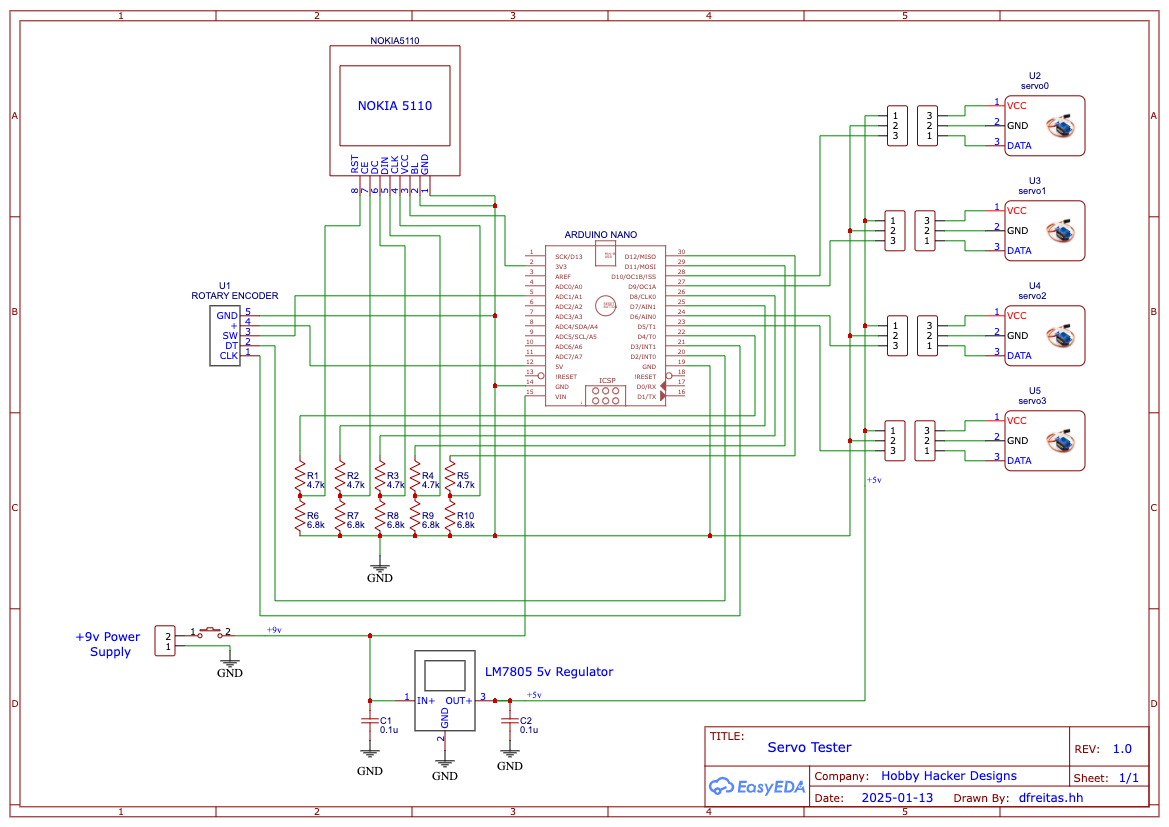
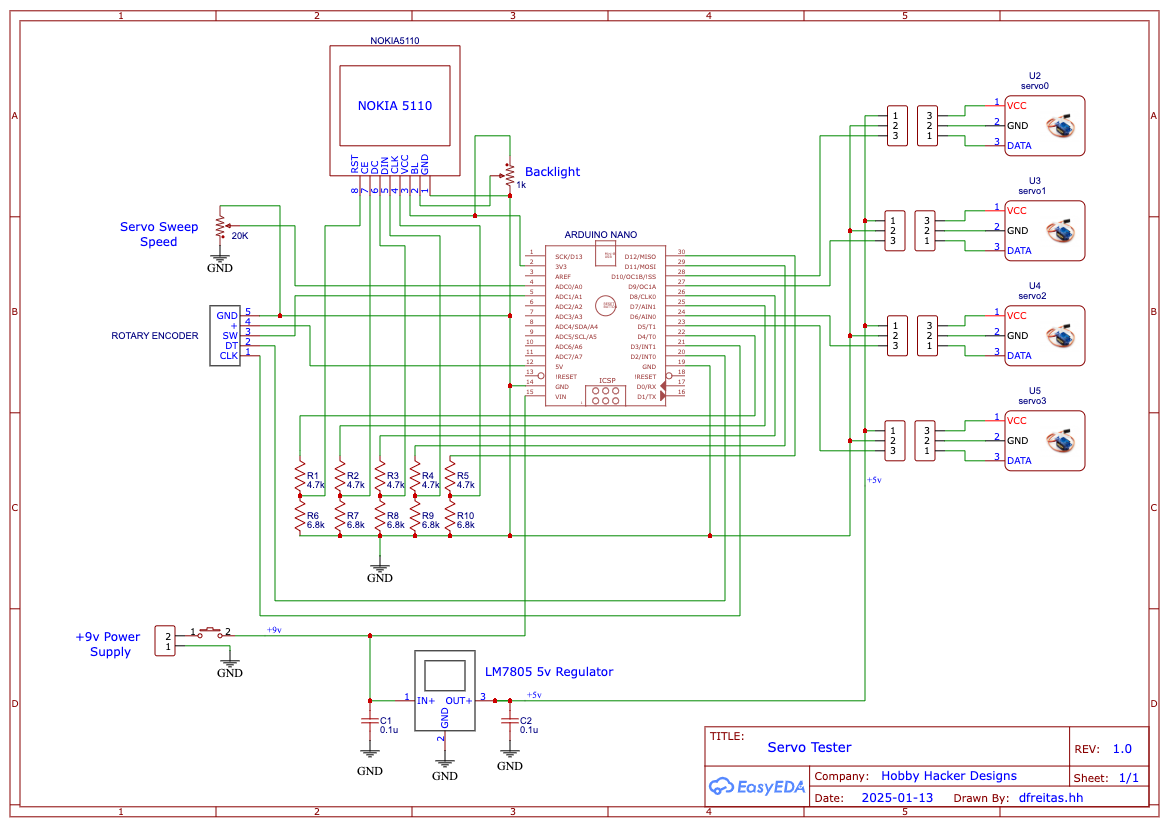
New schematic/code with backlight and servo-sweep-time control.

diff --git a/src/main.cpp b/src/main.cpp
@@ -1,8 +1,23 @@
 #include <Arduino.h>
 
-// For Nokia OLED display
-//#include <Adafruit_GFX.h>
-//#include <Adafruit_PCD8544.h>
+/* ServoTester
+  
+   Up to four servos can be tested at a time.  All four servos can be driven simultaneously (with the same input range/mode) 
+   or each servo can have a separate minimum angle, maximum angle and automatic sweep or manual move mode.
+  
+   Two level menu is used.  The top level menu shows servo-0/1/2/3 and one called "A" (for all).  Rotating the active line
+   indicator (an "=" in the left most column) to the desired servo and clicking the rotary switch puts you into the setting
+   mode for that servo.  From there you can set the min-angle, max-angle, mode (POT - for potentiometer, or SWP - for auto-
+   sweep), and the current angle.  Select the desired line and click to enter edit mode.  In edit mode you turn the rotary
+   knob to increase/decrease the angle or select the different modes.  Select "Back" at the bottom of the menu to return to 
+   the top level menu.
+  
+   Selecting the ServoA line puts you into a mode where the setting apply to all the servos at once (overriding any settings
+   that were set for each individual servo).  It allows you to set or sweep all servos with the same settings.
+  
+   DLF 1/18/2025
+*/
+
 #include <RotaryEncoder.h>
 #include <Servo.h>
 #include <U8g2lib.h>
@@ -17,15 +32,14 @@ enum servoMode { POT, SWP };  // Either controlled with a potentiometer (POT) or
 enum rotary { LINE, MODE, CURA, MINA, MAXA };  // What the rotary knob is controlling
 
 // Constants
-#define OLED_REFRESH_TIME  100   // Time (ms) between OLED screen updates
-#define SERVO_MOVE_TIME    500   // Time (ms) between servo sweep steps
+#define OLED_REFRESH_TIME  60    // Time (ms) between OLED screen updates
 boolean PRESSED = false;
 
 // U8G2 for PCD8544 with software SPI
-//U8G2_PCD8544_84X48_1_4W_SW_SPI u8g2(U8G2_R0, /* clock=*/ 12, /* data=*/ 11, /* cs=*/ 7, /* dc=*/ 8, /* reset=*/ 4);
 U8X8_PCD8544_84X48_4W_SW_SPI u8x8(/* clock=*/ 12, /* data=*/ 11, /* cs=*/ 7, /* dc=*/ 8, /* reset=*/ 4);
 
-char str[11];  // Array to hold sprintf strings
+// Array to hold sprintf strings
+char str[11];  
 char modeStr[4];
 char selChar[2];
 
@@ -41,24 +55,25 @@ int encoderCurPosition = 0;
 
 // Servos
 #define NUM_SERVOS 5
-int servoPinArr[NUM_SERVOS] = {10,9,6,5,-1};
-int servoCurAngleArr[NUM_SERVOS] = {90,90,90,90,90};
-int servoMinAngleArr[NUM_SERVOS] = {0,0,0,0,-20};
-int servoMaxAngleArr[NUM_SERVOS] = {180,180,180,180,200};
-servoMode servoModeArr[NUM_SERVOS] = {POT,POT,POT,POT,POT};  // modes are POT or SWP  (potentiometer or sweep)
-Servo servoInstance[NUM_SERVOS-1]; // Create the servo objects for the actual servos (servo5 means ALL servos).
+#define SERVO_SWEEP_SPEED_PIN A2       // So we can control how fast the servos sweep
+int servoPinArr[NUM_SERVOS] = {10,9,6,5,-1};  // Fifth entry is just a dummy placeholder for the ALL-SERVOS settings.  We don't assign a real servo to it.
+int servoCurAngleArr[NUM_SERVOS] = {90,90,90,90,90};        // Current angle setting for each servo
+int servoMinAngleArr[NUM_SERVOS] = {0,0,0,0,-20};           // Minimum angle limit for each servo
+int servoMaxAngleArr[NUM_SERVOS] = {180,180,180,180,200};   // Maximum angle limit for each servo
+servoMode servoModeArr[NUM_SERVOS] = {POT,POT,POT,POT,POT}; // modes are POT or SWP  (potentiometer or sweep-auto)
+Servo servoInstance[NUM_SERVOS-1]; // Create the servo objects for the actual servos 
 
 // Menu Vars
 uint8_t menuLevel = 0;
-uint8_t level0SelectRow = 0;
-uint8_t level1SelectRow = 0;
+uint8_t level0SelectRow = 0;     // The top level row that is being selected to use
+uint8_t level1SelectRow = 0;     // The level-1 menu row that is beign selected
 uint8_t NUM_LEVEL0_ITEMS = 5;
 uint8_t NUM_LEVEL1_ITEMS = 5;
-boolean editing = false;   // Set true when editing data in a menu row
+boolean editing = false;         // Set true when editing data in a menu row
 
 // Misc Globals
-int sweepAngle = 0;  // Where we are at in the sweep
-int sweepDelta = 5;  // Number of degrees we move on each step during a sweep
+int sweepAngle = 0;                   // Where we are at in the sweep
+int sweepDelta = 1;                   // Number of degrees we move on each step during a sweep
 boolean sweepAngleRising = true;      // CW or CCW rotation
 unsigned long lastDisplayUpdate = 0;  // last OLED update
 unsigned long lastSweepUpdate = 0;    // last servo step move
@@ -77,13 +92,13 @@ void setup() {
    while(!Serial) { }
    delay(1000);
 
+   // Initialize the servos
    for(int i = 0; i < NUM_SERVOS-1; i++) {
       servoInstance[i].attach(servoPinArr[i]);  
    }
 
-   // Set up the oled
+   // Set up the oled.  This u8x8 is a text only library (no graphics)
    u8x8.begin();
-   //u8g2.begin();
 
    // Initialize the rotary encoder.  Enable the Arduino builtin pullup resistors.
    pinMode(ENC_SW, INPUT_PULLUP);
@@ -109,7 +124,12 @@ void loop() {
 
    encoderCurPosition = encoder->getPosition();
 
-   // Limit the encoder count range depending on which menu we are in (different menus have different number of rows)
+   // Set the speed that the servos will sweep
+    // Will be in ms as we'll use the raw 0-1023 reading with millis() later
+   uint16_t servoSweepSpeed = analogRead(SERVO_SWEEP_SPEED_PIN); 
+
+   // Limit the encoder count range depending on which menu/mode we are in (different menus have different number of choices)
+   // This lets us wrap the menu selector from max back to min when rotating the knob
    if(menuLevel == 0) {
       encoderCurPosition = getEncoderPosition(encoderCurPosition, 0, NUM_LEVEL0_ITEMS-1);
       level0SelectRow = encoderCurPosition;
@@ -145,6 +165,7 @@ void loop() {
       while(checkSwitch(ENC_SW) == PRESSED) {
          delay(1);
       }
+      // Top level menu
       if(menuLevel == 0) {
          level0SelectRow = encoderCurPosition;
          level1SelectRow = 0;
@@ -152,6 +173,7 @@ void loop() {
          menuLevel = 1;
          rotaryControl = LINE;
  
+      // Individual servo sub-menu
       } else if(menuLevel == 1 && level1SelectRow == 0 && !editing) {   // This is the "mode" line
          rotaryControl = MODE;
          editing = true;
@@ -206,11 +228,16 @@ void loop() {
          for(int i = 0; i < NUM_SERVOS; i++) {
             if(servoModeArr[i] == POT) { strcpy(modeStr, "POT"); }
             if(servoModeArr[i] == SWP) { strcpy(modeStr, "SWP"); }
+
+            // Indicate the selected row by placing an "=" in the left column.  That will be 
+            // the servo whos setup we enter if we click the rotary switch
             if(level0SelectRow == i ) {
                strcpy(selChar,"=");
             } else {
                strcpy(selChar," ");
             }
+            // Name "servo4" as servoA  for ALL.  When we select this servo, 
+            // its setup page will apply to all the servos at once.
             if(i == 4) {
                sprintf(str,"%sA %s %d", selChar, modeStr, servoCurAngleArr[i]);
             } else {
@@ -219,6 +246,10 @@ void loop() {
             u8x8.drawString(0,i+1,str);
          }
       }
+      // This is the servo setup sub-menu.  Here each entry can be edited to change
+      // mode/current-angle,min-angle, and max-angle for the servo.
+      // When we click on an entry, the font is changed so we can see we are in edit mode.
+      // To exit edit mode, click again.
       if(menuLevel == 1) {
          // Menu Header
          u8x8.clearDisplay();
@@ -277,9 +308,10 @@ void loop() {
 
    // Now go move the servo(s)
    for(int i = 0; i < NUM_SERVOS-1; i++) {
+      // row 4 means all servos driven with the "servoA" settings
       if(level0SelectRow == 4) {
-         if(servoModeArr[4] == POT) {   // row 4 means all servos driven with the "servo4" settings
-            servoInstance[i].write(servoCurAngleArr[4]);        // sets the servo position 
+         if(servoModeArr[4] == POT) {  
+            servoInstance[i].write(servoCurAngleArr[4]);     // sets the servo position 
          }
       } else {
          if(servoModeArr[i] == POT) {
@@ -289,14 +321,15 @@ void loop() {
    }
 
    // For any servos being automatically swept
-   if(millis() - lastSweepUpdate > SERVO_MOVE_TIME) {
+   if(millis() - lastSweepUpdate > servoSweepSpeed) {
       lastSweepUpdate = millis();
       int index;
       for(int i = 0; i < NUM_SERVOS-1; i++) {
             index = i;
-         if(level0SelectRow == 4) {   // row 4 means all servos driven with the "servo4" settings
+         if(level0SelectRow == 4) {   // row 4 means all servos driven with the "servoA" settings
             index = 4;
          }
+         // Calculate the next servo position angle.  Ramp up then back down and repeat.
          if(!sweepAngleRising && sweepAngle <= servoMinAngleArr[index]) {
             sweepAngleRising = true;
             sweepAngle = servoMinAngleArr[index];
@@ -311,7 +344,7 @@ void loop() {
          if(!sweepAngleRising && sweepAngle > servoMinAngleArr[index]) {
             sweepAngle -= sweepDelta;
          }
-         if(level0SelectRow == 4 && servoModeArr[4] == SWP) {   // row 4 means all servos driven with the "servo4" settings
+         if(level0SelectRow == 4 && servoModeArr[4] == SWP) {   // row 4 means all servos driven with the "servoA" settings
             servoInstance[i].write(sweepAngle);                 // move the indexed servo to the new position
             servoCurAngleArr[4] = sweepAngle;
          } else {
